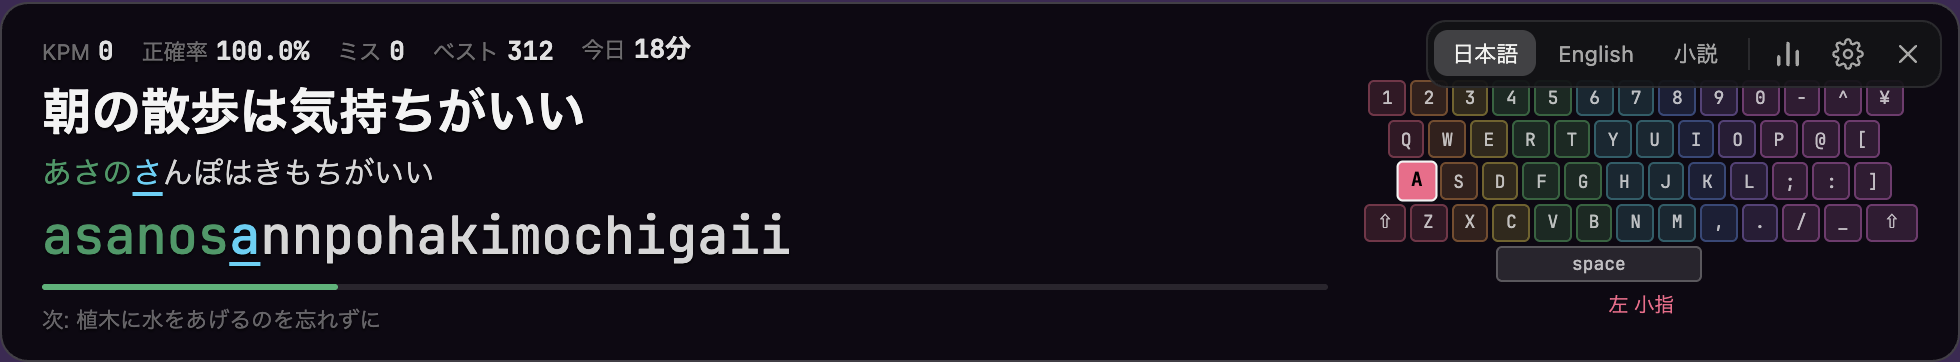
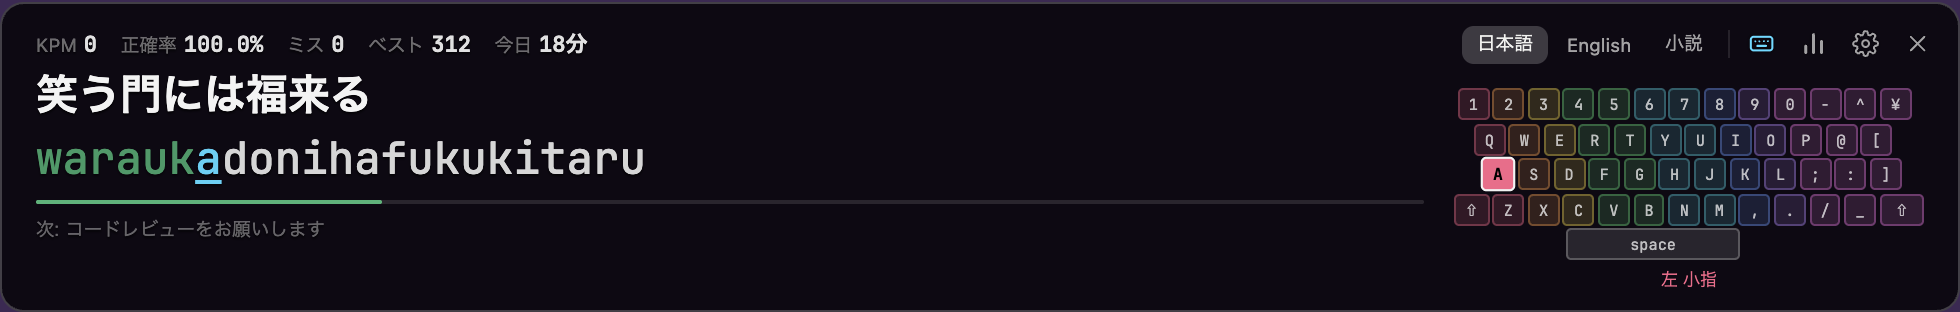
Hide the kana reading line by default, with a toggle in settings and the menu

diff --git a/src/js/bar.js b/src/js/bar.js
@@ -101,9 +101,9 @@ function render() {
   }
 
   if (model.showsReading) {
-    $("display").style.display = ""; $("kana").style.display = "";
+    $("display").style.display = ""; $("kana").style.display = s.showKana ? "" : "none";
     $("display").textContent = model.sentence.display;
-    $("kana").innerHTML = parts(model.kanaParts);
+    if (s.showKana) $("kana").innerHTML = parts(model.kanaParts);
   } else {
     $("display").style.display = "none"; $("kana").style.display = "none";
   }
@@ -289,6 +289,7 @@ document.addEventListener("contextmenu", async (e) => {
       await item("設定…", () => openWindow("settings"), `${mod}+,`),
       await check("コンパクト表示", s.compact, () => store.set("compact", !s.compact), `${mod}+K`),
       await check("キーボードガイド", s.showKeyboard, toggleKeyboard, `${mod}+G`),
+      await check("読みがな", s.showKana, () => store.set("showKana", !s.showKana)),
       await Submenu.new({ text: "タイプ音", items: sounds }),
       await PredefinedMenuItem.new({ item: "Separator" }),
       await item("テキストファイルで練習…", openFile, `${mod}+O`),

diff --git a/src/js/settings.js b/src/js/settings.js
@@ -66,6 +66,7 @@ function render() {
   $("practice").innerHTML =
     `<div class="line"><label>出題</label>${seg("contentKind", LABELS.contentKind)}</div>` +
     novelLine() +
+    toggle("showKana", "漢字の文の下に読みがなを表示") +
     toggle("showKeyboard", "キーボードガイドを表示") +
     `<div class="line"><label>キー配列</label>${seg("keyLayout", LABELS.keyLayout)}</div>` +
     `<div class="btns"><button id="b-file">ファイルから読み込む…</button><button id="b-paste">クリップボードから</button></div>` +

diff --git a/src/js/store.js b/src/js/store.js
@@ -22,6 +22,7 @@ export const DEFAULTS = {
   fontTheme: "modern",       // modern | round | textbook | system
   cursorStyle: "underline",  // underline | color | box
   showKeyboard: true,
+  showKana: false,           // 漢字の文の下に読みがな（ひらがな）を出す。ローマ字があるので標準では出さない
   keyLayout: "auto",         // auto | jis | us
   dimWhenIdle: true,
   compact: false,
